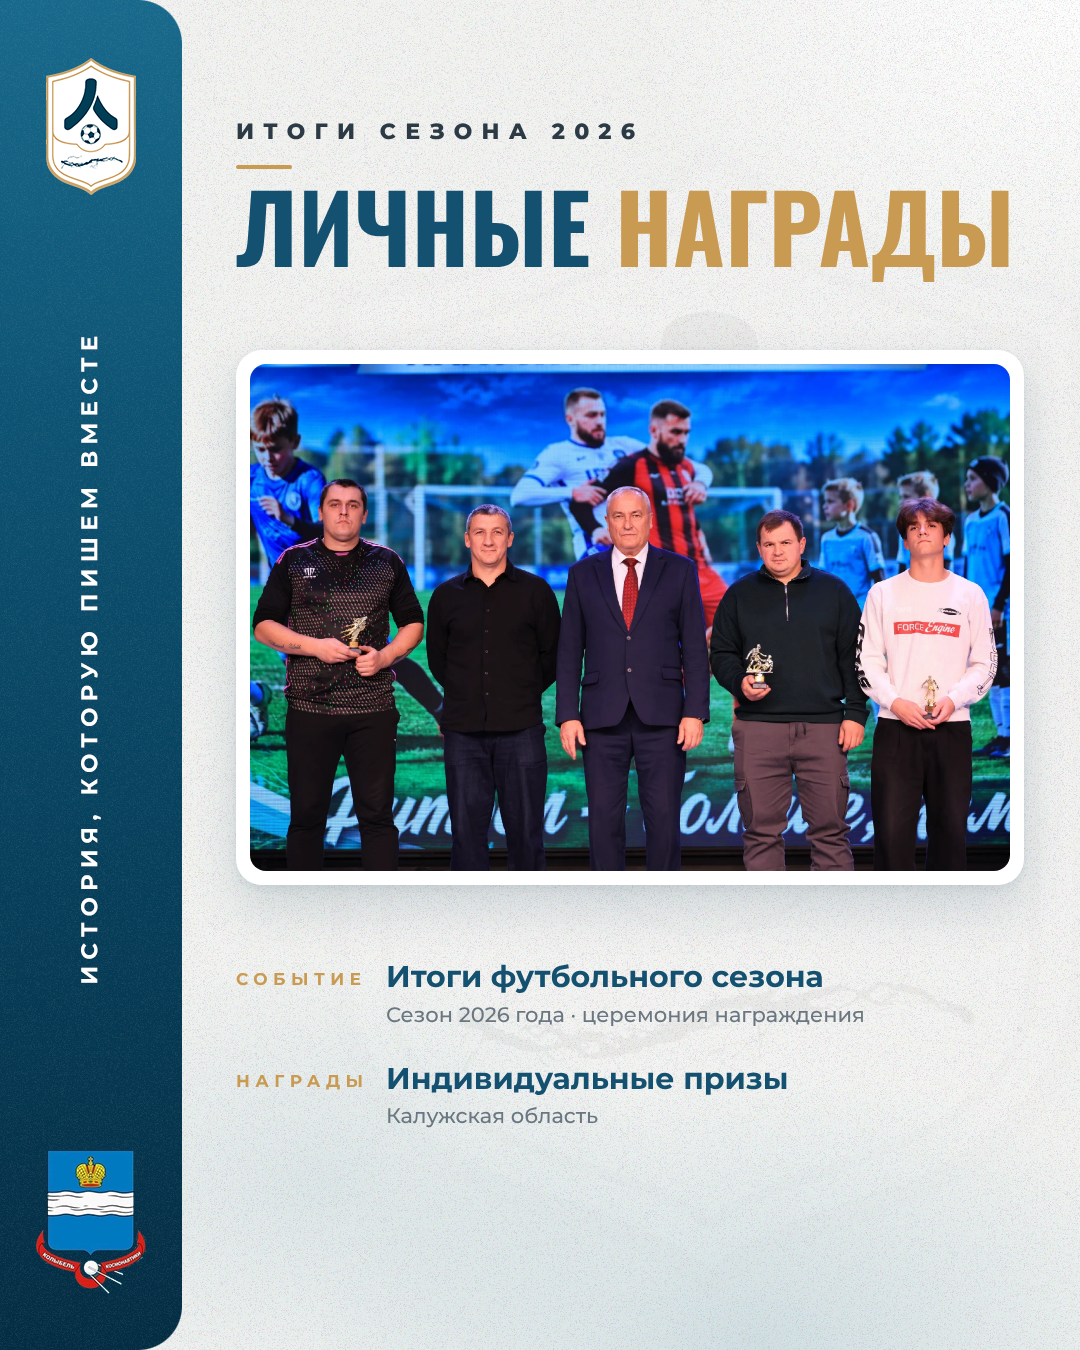
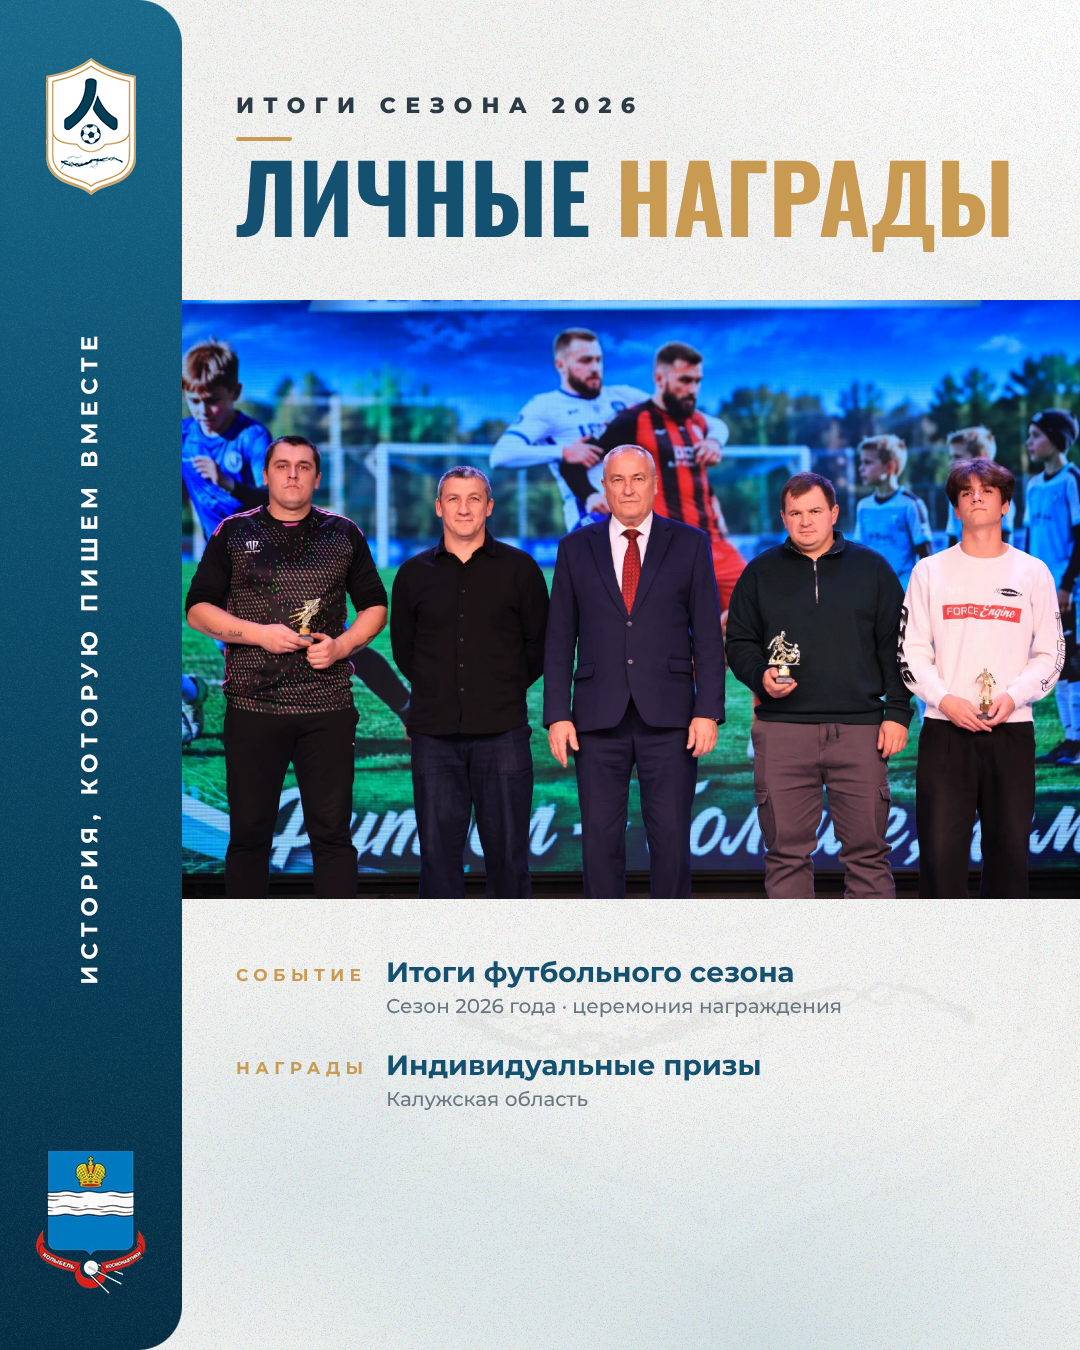
Make card photos full-bleed from blue panel to right edge, tighten text
Claude-Session: https://claude.ai/code/session_01BAoifR2VyKx7kzhUngMqXC

diff --git a/l5-itogi-sezona/source/card.html b/l5-itogi-sezona/source/card.html
@@ -14,17 +14,16 @@
 html,body{width:1080px;height:1350px;overflow:hidden}
 body{background:url(template.png) 0 0/1080px 1350px no-repeat;font-family:Mont;position:relative}
 .c{position:absolute;left:236px;right:56px;top:0;bottom:0}
-.kick{position:absolute;top:118px;font:800 22px Mont;letter-spacing:.42em;color:var(--ink)}
-.kick:after{content:"";display:block;width:56px;height:4px;background:var(--gold);margin-top:20px;border-radius:2px}
-h1{position:absolute;top:178px;font:700 112px/1 Osw;letter-spacing:.005em;color:var(--blue);white-space:nowrap}
+.kick{position:absolute;top:92px;font:800 22px Mont;letter-spacing:.42em;color:var(--ink)}
+.kick:after{content:"";display:block;width:56px;height:4px;background:var(--gold);margin-top:18px;border-radius:2px}
+h1{position:absolute;top:148px;font:700 100px/1 Osw;letter-spacing:.005em;color:var(--blue);white-space:nowrap}
 h1 b{color:var(--gold);font-weight:700}
-.card{position:absolute;top:350px;left:0;right:0;background:#fff;border-radius:26px;padding:14px;
- box-shadow:0 22px 50px rgba(20,60,90,.16),0 3px 10px rgba(20,60,90,.08)}
-.card img{display:block;width:100%;aspect-ratio:3/2;object-fit:cover;border-radius:16px}
-.rows{position:absolute;top:960px;left:0;right:0;display:grid;grid-template-columns:150px 1fr;row-gap:34px}
+.card{position:absolute;top:300px;left:-54px;right:-56px}
+.card img{display:block;width:100%;aspect-ratio:3/2;object-fit:cover}
+.rows{position:absolute;top:956px;left:0;right:0;display:grid;grid-template-columns:150px 1fr;row-gap:30px}
 .l{font:700 17px Mont;letter-spacing:.32em;color:var(--gold);padding-top:9px}
-.v{font:700 30px/1.15 Mont;color:var(--blue)}
-.v small{display:block;font:500 21px/1.3 Mont;color:var(--muted);margin-top:6px}
+.v{font:700 28px/1.15 Mont;color:var(--blue)}
+.v small{display:block;font:500 20px/1.3 Mont;color:var(--muted);margin-top:5px}
 </style></head><body><div class="c">
 <div class="kick">{{KICK}}</div>
 <h1>{{H1}}</h1>

diff --git a/l5-itogi-sezona/source/render.js b/l5-itogi-sezona/source/render.js
@@ -10,6 +10,6 @@ const cards=[
 (async()=>{const b=await chromium.launch();const p=await b.newPage({viewport:{width:1080,height:1350},deviceScaleFactor:1});
 for(const c of cards){const html=tpl.replace('{{KICK}}',c.kick).replace('{{H1}}',c.h1).replace('{{IMG}}',c.img).replace('{{POS}}',c.pos)
  .replace('{{ROWS}}',c.rows.map(r=>`<div class="l">${r[0]}</div><div class="v">${r[1]}<small>${r[2]}</small></div>`).join(''));
- fs.writeFileSync('_tmp.html',html);await p.goto('file://'+path.resolve('_tmp.html'));await p.evaluate(async()=>{await document.fonts.ready;const h=document.querySelector('h1'),w=document.querySelector('.c').clientWidth;let f=112;while(h.scrollWidth>w&&f>60){f-=2;h.style.fontSize=f+'px'}});await p.waitForTimeout(300);
+ fs.writeFileSync('_tmp.html',html);await p.goto('file://'+path.resolve('_tmp.html'));await p.evaluate(async()=>{await document.fonts.ready;const h=document.querySelector('h1'),w=document.querySelector('.c').clientWidth;let f=100;while(h.scrollWidth>w&&f>60){f-=2;h.style.fontSize=f+'px'}});await p.waitForTimeout(300);
  await p.screenshot({path:c.out});console.log(c.out);}
 await b.close();})();
